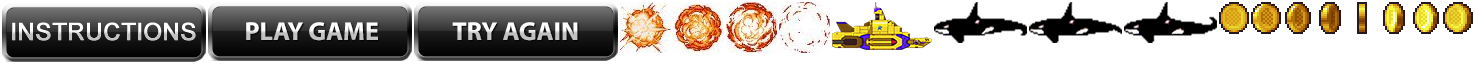
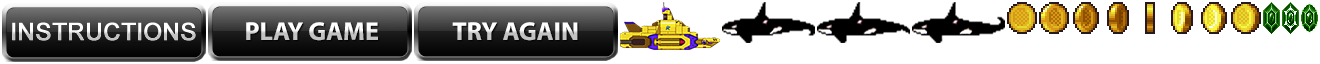
Added 2 more whales for more of a challange

diff --git a/subAssault/Scripts/managers/collision.ts b/subAssault/Scripts/managers/collision.ts
@@ -1,6 +1,7 @@
 /// <reference path="../objects/whale.ts" />
-/// <reference path="../objects/island.ts" />
+/// <reference path="../objects/coin.ts" />
 /// <reference path="../objects/sub.ts" />
+/// <reference path="asset.ts" />
 /// <reference path="../objects/scoreboard.ts" />
 
 module managers {
@@ -8,13 +9,13 @@ module managers {
     export class Collision {
         // class variables
         private sub: objects.Sub;
-        private island: objects.Island;
+        private coin: objects.Coin;
         private whales = [];
         private scoreboard: objects.Scoreboard;
 
-        constructor(sub: objects.Sub, island: objects.Island, whales, scoreboard: objects.Scoreboard) {
+        constructor(sub: objects.Sub, coin: objects.Coin, whales, scoreboard: objects.Scoreboard) {
             this.sub = sub;
-            this.island = island;
+            this.coin = coin;
             this.whales = whales;
             this.scoreboard = scoreboard;
         }
@@ -52,18 +53,18 @@ module managers {
         }
 
         // check collision between sub and island
-        private subAndIsland() {
+        private subAndCoin() {
             var p1: createjs.Point = new createjs.Point();
             var p2: createjs.Point = new createjs.Point();
             p1.x = this.sub.image.x;
             p1.y = this.sub.image.y;
             p1.y = this.sub.image.y;
-            p2.x = this.island.image.x;
-            p2.y = this.island.image.y;
-            if (this.distance(p1, p2) < ((this.sub.height / 2) + (this.island.height / 2))) {
+            p2.x = this.coin.image.x;
+            p2.y = this.coin.image.y;
+            if (this.distance(p1, p2) < ((this.sub.height / 2) + (this.coin.height / 2))) {
                 createjs.Sound.play("coinSound");
                 this.scoreboard.score += 100;
-                this.island.reset();
+                this.coin.reset();
             }
         }
 
@@ -72,7 +73,7 @@ module managers {
             for (var count = 0; count < constants.WHALE_NUM; count++) {
                 this.subAndWhale(this.whales[count]);
             }
-            this.subAndIsland();
+            this.subAndCoin();
         }
     }
 } 

diff --git a/subAssault/Scripts/managers/asset.ts b/subAssault/Scripts/managers/asset.ts
@@ -14,25 +14,24 @@
     var spriteSheetData = {
         "images": ["assets/images/atlas.png"],
         "frames": [
-            [832, 2, 100, 48],
-            [1219, 2, 30, 32],
-            [1251, 2, 30, 32],
-            [1283, 2, 30, 32],
-            [1315, 2, 30, 32],
-            [1347, 2, 30, 32],
-            [1379, 2, 30, 32],
-            [1411, 2, 30, 32],
-            [1443, 2, 30, 32],
-            [620, 2, 51, 51],
-            [673, 2, 51, 51],
-            [726, 2, 51, 51],
-            [779, 2, 51, 51],
+            [620, 2, 100, 48],
+            [1007, 2, 30, 32],
+            [1039, 2, 30, 32],
+            [1071, 2, 30, 32],
+            [1103, 2, 30, 32],
+            [1135, 2, 30, 32],
+            [1167, 2, 30, 32],
+            [1199, 2, 30, 32],
+            [1231, 2, 30, 32],
+            [1263, 2, 17, 32],
+            [1282, 2, 17, 32],
+            [1301, 2, 17, 32],
             [2, 2, 204, 60],
             [208, 2, 204, 59],
             [414, 2, 204, 59],
-            [934, 2, 93, 41],
-            [1029, 2, 93, 41],
-            [1124, 2, 93, 41]
+            [722, 2, 93, 41],
+            [817, 2, 93, 41],
+            [912, 2, 93, 41]
         ],
         "animations": {
             "Submarine": [0],
@@ -40,17 +39,17 @@
                 frames: [1, 2, 3, 4, 5, 6, 7, 8],
                 speed: 0.5
             },
-            "explosion": {
-                frames: [9, 10, 11, 12],
-                speed: 1
+            "x": {
+                frames: [9, 10, 11],
+                speed: 0.1
             },
-            "instructionButton": [13],
-            "playButton": [14],
-            "tryAgainButton": [15],
+            "instructionButton": [12],
+            "playButton": [13],
+            "tryAgainButton": [14],
             "whale": {
-                frames: [17, 18, 17, 16],
+                frames: [16, 17, 16, 15],
                 speed: 0.2
-            }
+            }            
         }
        
     }

diff --git a/subAssault/Scripts/states/play.ts b/subAssault/Scripts/states/play.ts
@@ -1,6 +1,6 @@
 /// <reference path="../objects/button.ts" />
 /// <reference path="../objects/whale.ts" />
-/// <reference path="../objects/island.ts" />
+/// <reference path="../objects/coin.ts" />
 /// <reference path="../objects/label.ts" />
 /// <reference path="../objects/ocean.ts" />
 /// <reference path="../objects/sub.ts" />
@@ -10,7 +10,7 @@ module states {
     var music;
     export function playState() {
         ocean.update();
-        island.update();
+        coin.update();
         sub.update();
 
         for (var count = 0; count < constants.WHALE_NUM; count++) {
@@ -41,7 +41,7 @@ module states {
 
         // Instantiate Game Objects
         ocean = new objects.Ocean(stage, game);
-        island = new objects.Island(stage, game);
+        coin = new objects.Coin(stage, game);
         sub = new objects.Sub(stage, game);
 
         // Show Cursor
@@ -56,7 +56,7 @@ module states {
         scoreboard = new objects.Scoreboard(stage, game);
 
         // Instantiate Collision Manager
-        collision = new managers.Collision(sub, island, whales, scoreboard);
+        collision = new managers.Collision(sub, coin, whales, scoreboard);
 
         stage.addChild(game);
     }

diff --git a/subAssault/Scripts/states/instructions.ts b/subAssault/Scripts/states/instructions.ts
@@ -2,12 +2,14 @@
 /// <reference path="../objects/scoreboard.ts" />
 /// <reference path="../objects/sub.ts" />
 /// <reference path="../objects/ocean.ts" />
-/// <reference path="../objects/island.ts" />
+/// <reference path="../objects/coin.ts" />
 /// <reference path="../objects/whale.ts" />
 /// <reference path="../objects/button.ts" />
 /// <reference path="../objects/label.ts" />
 module states {
+    var music;
     export function backButtonClicked(event: MouseEvent) {
+        music.stop();
         stage.removeChild(game);        
         game.removeAllChildren();
         game.removeAllEventListeners();
@@ -28,6 +30,9 @@ module states {
 
         // Instantiate Game Objects
         ocean = new objects.Ocean(stage, game);
+
+        //Add background music
+        music = createjs.Sound.play('startMusic', createjs.Sound.INTERRUPT_NONE, 0, 0, -1, 1, 0);
 
         // Show Cursor
         stage.cursor = "default";

diff --git a/subAssault/Scripts/objects/sub.ts b/subAssault/Scripts/objects/sub.ts
@@ -1,11 +1,10 @@
 /// <reference path="../managers/asset.ts" />
 module objects {
-    // Plane Class
+    // Sub Class
     export class Sub {
         image: createjs.Sprite;
         stage: createjs.Stage;
         game: createjs.Container;
-        //music: createjs.SoundInstance;
         width: number;
         height: number;
         constructor(stage: createjs.Stage, game: createjs.Container) {
@@ -17,7 +16,6 @@ module objects {
             this.image.regX = this.width / 2;
             this.image.regY = this.height / 2;
             game.addChild(this.image);
-            //this.music = createjs.Sound.play('playMusic', createjs.Sound.INTERRUPT_NONE, 0, 0, -1, 1, 0);
         }
 
 
@@ -30,7 +28,6 @@ module objects {
             }            
         }
         destroy() {
-            //this.music.stop();
             game.removeChild(this.image);
         }
     }

diff --git a/subAssault/Scripts/states/menu.ts b/subAssault/Scripts/states/menu.ts
@@ -2,7 +2,7 @@
 /// <reference path="../objects/scoreboard.ts" />
 /// <reference path="../objects/sub.ts" />
 /// <reference path="../objects/ocean.ts" />
-/// <reference path="../objects/island.ts" />
+/// <reference path="../objects/coin.ts" />
 /// <reference path="../objects/whale.ts" />
 /// <reference path="../objects/button.ts" />
 /// <reference path="../objects/label.ts" />
@@ -21,7 +21,7 @@ module states {
     }
 
     export function instructionButtonClicked(event: MouseEvent) {
-        //music.stop();
+        music.stop();
         stage.removeChild(game);
         for (var count = 0; count < constants.WHALE_NUM; count++) {
             whales[count].destroy();

diff --git a/subAssault/Scripts/game.ts b/subAssault/Scripts/game.ts
@@ -1,7 +1,7 @@
 /// <reference path="constants.ts" />
 /// <reference path="managers/asset.ts" />
 /// <reference path="objects/whale.ts" />
-/// <reference path="objects/island.ts" />
+/// <reference path="objects/coin.ts" />
 /// <reference path="objects/ocean.ts" />
 /// <reference path="objects/sub.ts" />
 /// <reference path="objects/scoreboard.ts" />
@@ -18,7 +18,7 @@ var game: createjs.Container;
 
 var ocean: objects.Ocean;
 var sub: objects.Sub;
-var island: objects.Island;
+var coin: objects.Coin;
 var whales = [];
 var scoreboard: objects.Scoreboard;
 

diff --git a/subAssault/index.html b/subAssault/index.html
@@ -20,7 +20,7 @@
     <script src="Scripts/constants.js"></script>
     <script src="Scripts/managers/asset.js"></script>
     <script src="Scripts/objects/whale.js"></script>
-    <script src="Scripts/objects/island.js"></script>
+    <script src="Scripts/objects/coin.js"></script>
     <script src="Scripts/objects/ocean.js"></script>
     <script src="Scripts/objects/sub.js"></script>
     <script src="Scripts/objects/scoreboard.js"></script>

diff --git a/subAssault/Scripts/states/gameover.ts b/subAssault/Scripts/states/gameover.ts
@@ -1,7 +1,7 @@
 /// <reference path="../constants.ts" />
 /// <reference path="../objects/button.ts" />
 /// <reference path="../objects/whale.ts" />
-/// <reference path="../objects/island.ts" />
+/// <reference path="../objects/coin.ts" />
 /// <reference path="../objects/label.ts" />
 /// <reference path="../objects/ocean.ts" />
 /// <reference path="../objects/sub.ts" />

diff --git a/subAssault/Scripts/constants.ts b/subAssault/Scripts/constants.ts
@@ -6,7 +6,7 @@
     export var INSTRUCTION_STATE: number = 3;
 
     // Game Constants
-    export var WHALE_NUM: number = 3;
+    export var WHALE_NUM: number = 5;
     export var LABEL_FONT = "40px Consolas";
     export var LABEL_COLOUR = "#FFFF00";
     export var TEXT_FONT = "18px Consolas";

diff --git a/subAssault/Scripts/objects/coin.ts b/subAssault/Scripts/objects/coin.ts
@@ -2,8 +2,8 @@
 /// <reference path="../constants.ts" />
 
 module objects {
-    // Island Class
-    export class Island {
+    // coin Class
+    export class Coin {
         image: createjs.Sprite;
         stage: createjs.Stage;
         game: createjs.Container;
